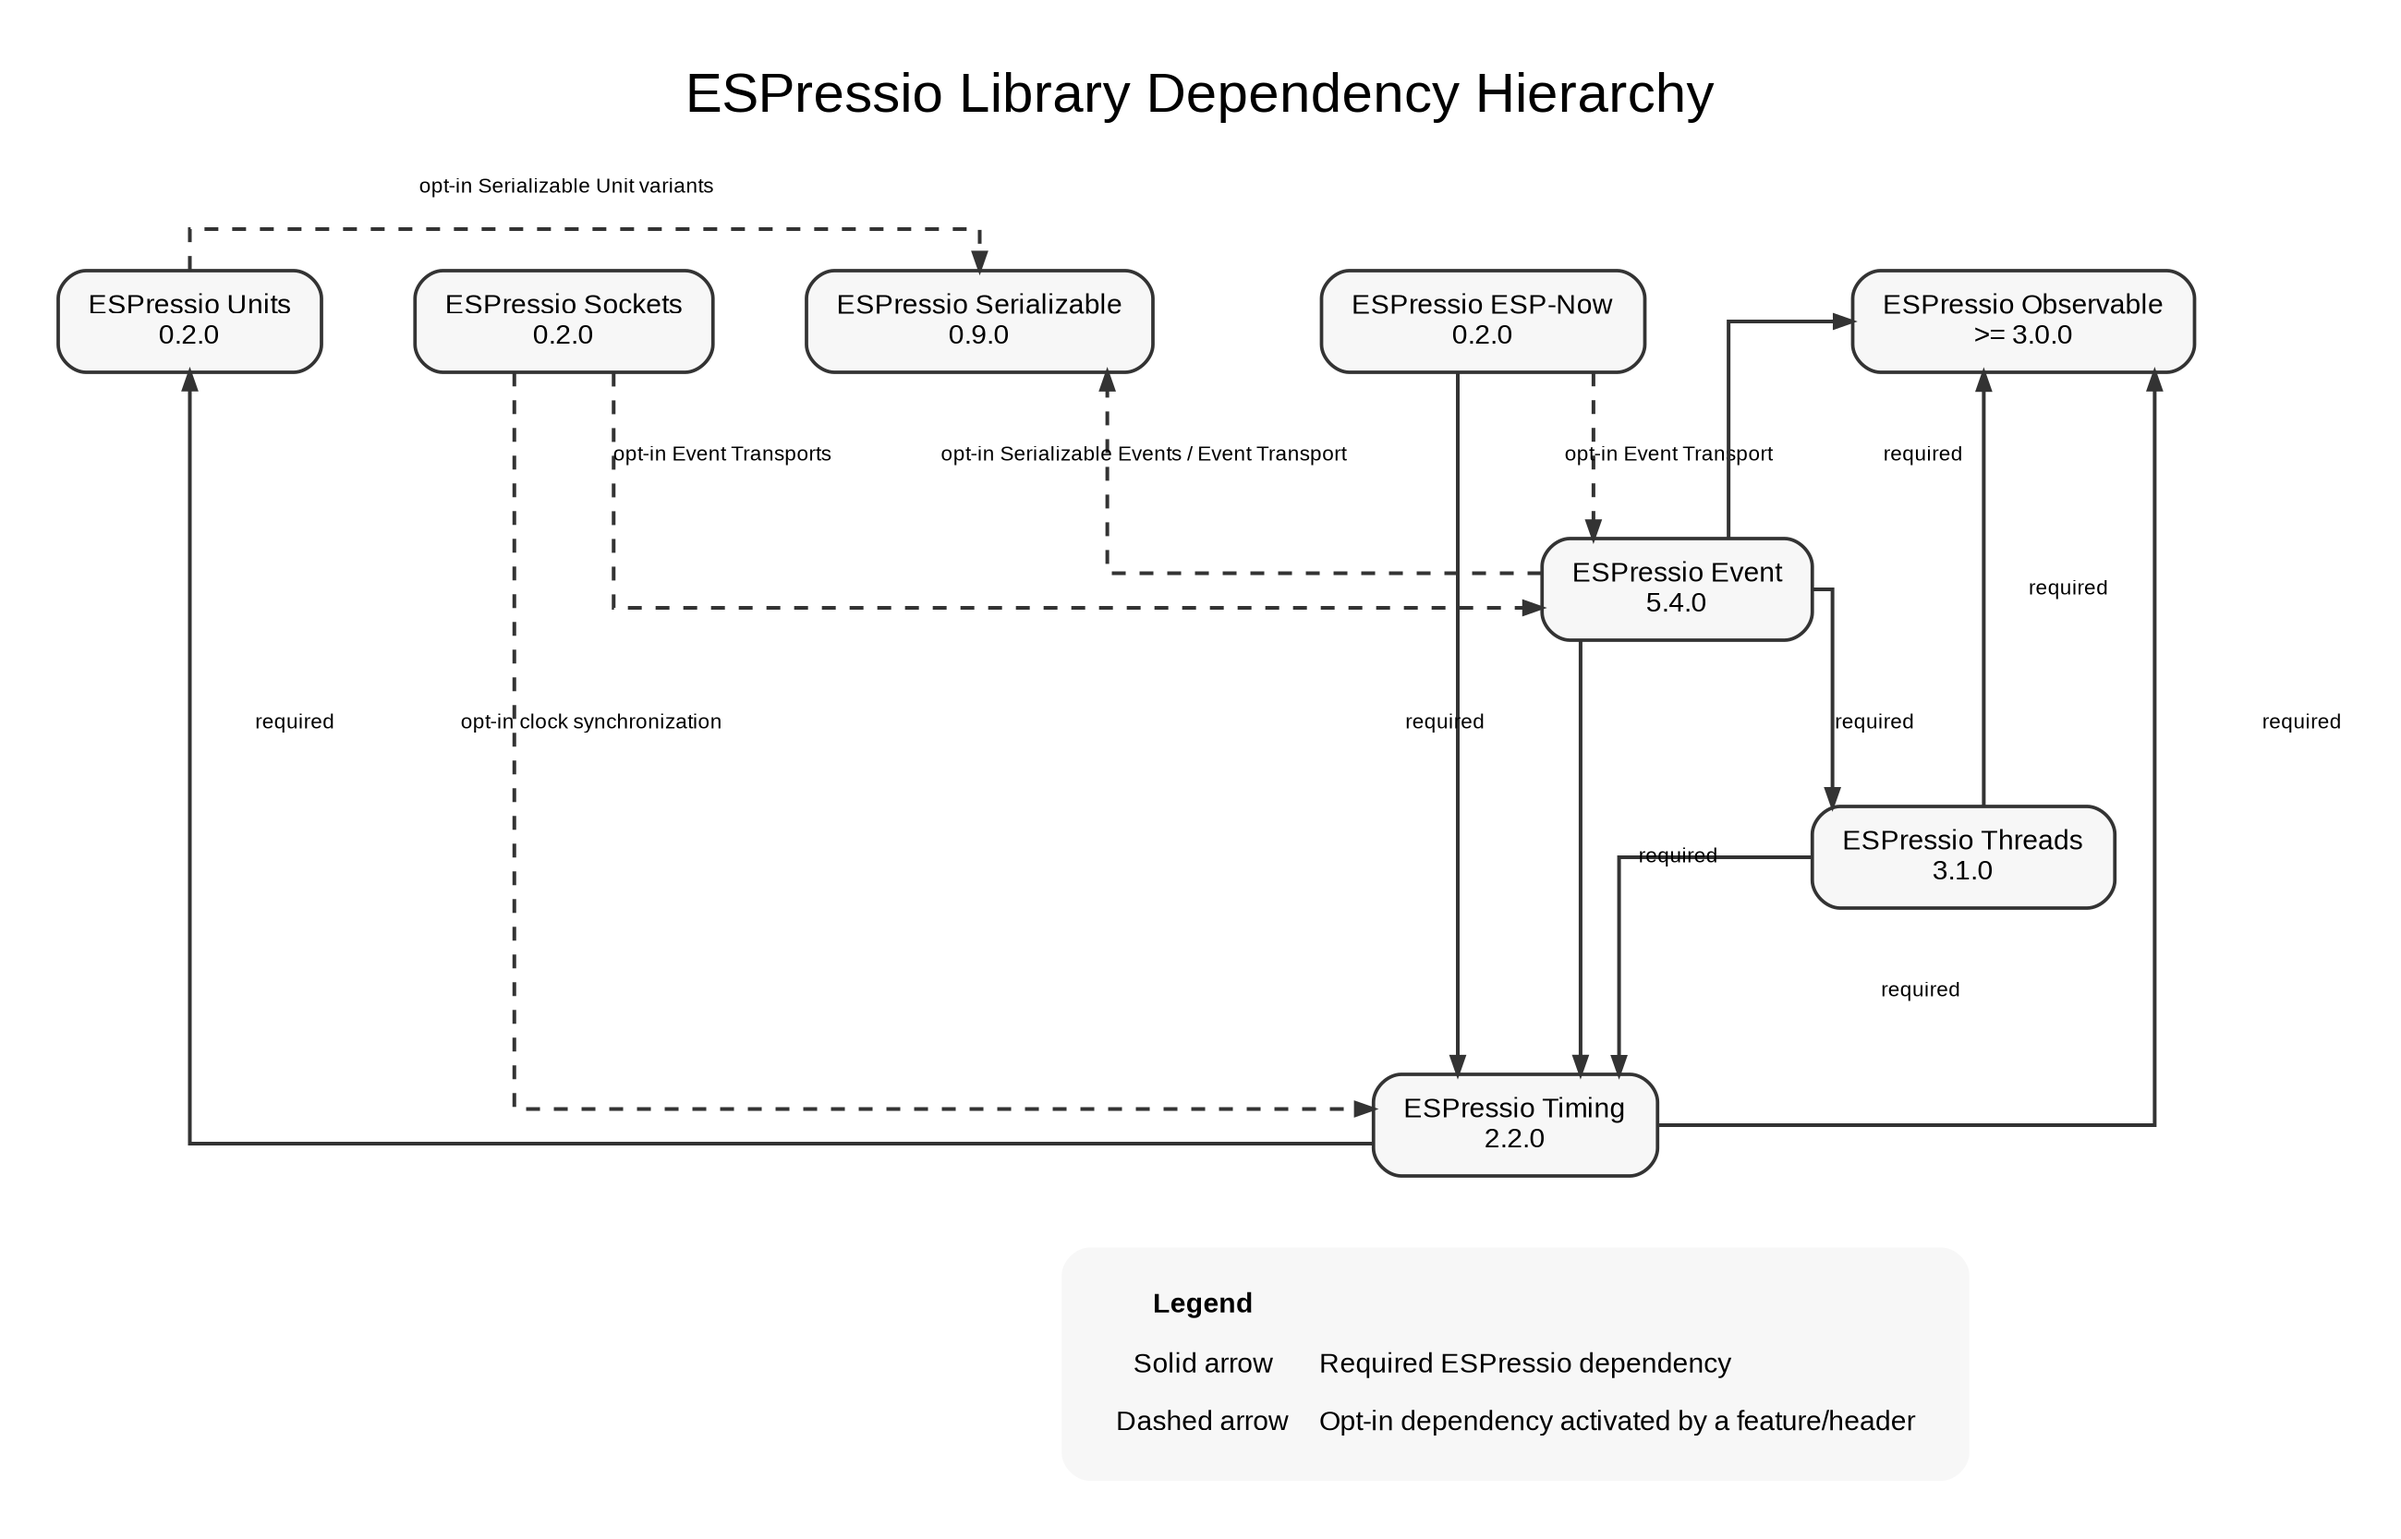
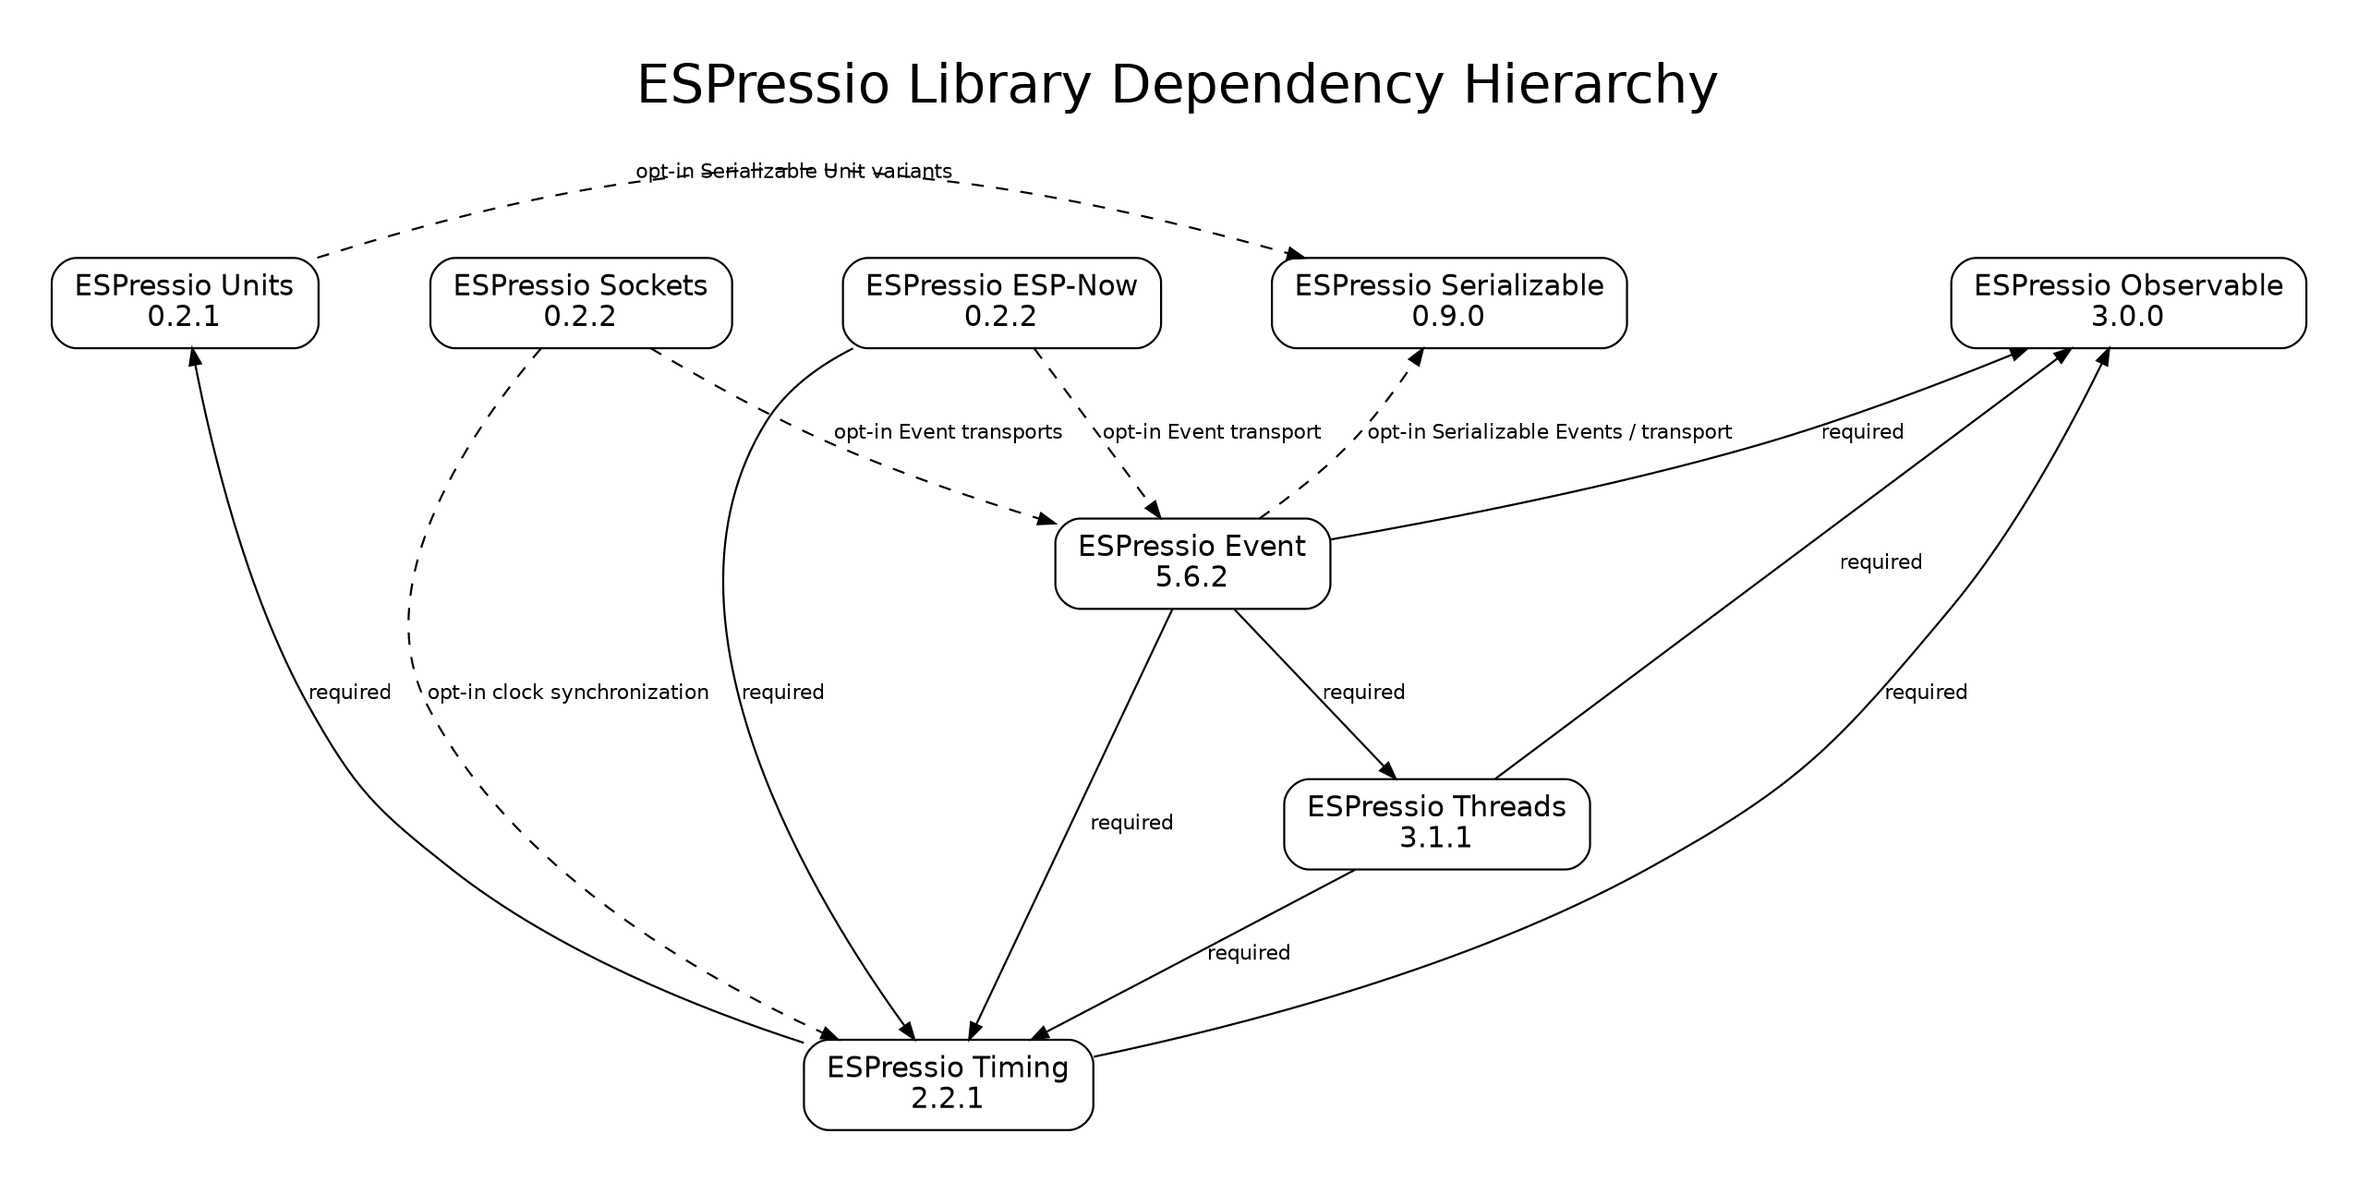
Dependency Version Updates (Patch release 0.2.1)

diff --git a/src/ESPressio_Unit_Serializable.hpp b/src/ESPressio_Unit_Serializable.hpp
@@ -9,7 +9,7 @@
  */
 
 #if !__has_include(<ESPressio_Serializable.hpp>)
-    #error "ESPressio_Unit_Serializable.hpp requires ESPressio-Serializable. Add flowduino/ESPressio-Serializable@^0.9.0 to the consuming project's dependencies."
+    #error "ESPressio_Unit_Serializable.hpp requires ESPressio-Serializable. Add flowduino/ESPressio-Serializable@>=0.9.0,<1.0.0 to the consuming project's dependencies."
 #endif
 
 #include <tuple>

diff --git a/ESPRESSIO_DEPENDENCY_CHART.md b/ESPRESSIO_DEPENDENCY_CHART.md
@@ -18,7 +18,7 @@ This distinction is important to the ESPressio architecture. Optional integratio
 
 ---
 
-## ESPressio Units 0.2.0
+## ESPressio Units 0.2.1
 
 **Required ESPressio dependencies: none.**
 
@@ -40,7 +40,7 @@ ordinary Unit type
 
 Serializable Unit type
     -> ESPressio Units
-    -> ESPressio Serializable
+    -> ESPressio Serializable >= 0.9.0 < 1.0.0
 ```
 
 ---
@@ -78,7 +78,7 @@ ESPressio Timing can operate with Serializable Unit time representations because
 
 ---
 
-## ESPressio Sockets 0.2.0
+## ESPressio Sockets 0.2.2
 
 **Required ESPressio dependencies: none.**
 
@@ -87,6 +87,8 @@ The core ESPressio Sockets library deliberately has no mandatory dependency on a
 It provides socket/network infrastructure and then exposes integrations through opt-in headers.
 
 ### ESPressio Sockets → ESPressio Event — opt-in
+
+Compatibility baseline: **ESPressio Event >= 5.6.2 < 6.0.0**.
 
 Socket Event Transport adapters implement the ESPressio Event transport abstraction.
 
@@ -97,6 +99,8 @@ A project using only the core socket facilities does not require ESPressio Event
 Because Event Transport operates on Serializable Events, the relevant Event/Serializable requirements are then inherited through that selected integration rather than imposed by the Sockets core.
 
 ### ESPressio Sockets → ESPressio Timing — opt-in
+
+Compatibility baseline: **ESPressio Timing >= 2.2.1 < 3.0.0**.
 
 Version 0.2.0 adds socket-based System Clock synchronization implementations.
 
@@ -114,12 +118,12 @@ ESPressio Timing continues to own clock discipline, synchronization calculations
 
 ---
 
-## ESPressio Timing 2.2.0
+## ESPressio Timing 2.2.1
 
 **Required ESPressio dependencies:**
 
-- ESPressio Units >= 0.2.0;
-- ESPressio Observable >= 3.0.0.
+- ESPressio Units >= 0.2.1 < 1.0.0;
+- ESPressio Observable >= 3.0.0 < 4.0.0.
 
 ### ESPressio Timing → ESPressio Units — required
 
@@ -139,12 +143,12 @@ The synchronous Observer layer also provides the source notifications consumed b
 
 ---
 
-## ESPressio Threads 3.1.0
+## ESPressio Threads 3.1.1
 
 **Required ESPressio dependencies:**
 
-- ESPressio Timing >= 2.0.0;
-- ESPressio Observable >= 3.0.0.
+- ESPressio Timing >= 2.2.1 < 3.0.0;
+- ESPressio Observable >= 3.0.0 < 4.0.0.
 
 ### ESPressio Threads → ESPressio Timing — required
 
@@ -164,11 +168,11 @@ ESPressio Event can optionally bridge them into asynchronous Events, but Threads
 
 ---
 
-## ESPressio ESP-Now 0.2.0
+## ESPressio ESP-Now 0.2.2
 
 **Required ESPressio dependencies:**
 
-- ESPressio Timing >= 2.1.0.
+- ESPressio Timing >= 2.2.1 < 3.0.0.
 
 ### ESPressio ESP-Now → ESPressio Timing — required
 
@@ -180,6 +184,8 @@ Timing remains responsible for the actual clock synchronization and discipline.
 
 ### ESPressio ESP-Now → ESPressio Event — opt-in
 
+Compatibility baseline: **ESPressio Event >= 5.6.2 < 6.0.0**.
+
 `ESPNowEventTransport` provides an ESP-NOW implementation of the ESPressio Event transport abstraction.
 
 The Event dependency is deliberately opt-in.
@@ -190,13 +196,13 @@ When `ESPNowEventTransport` is selected, the application also acquires the Seria
 
 ---
 
-## ESPressio Event 5.4.0
+## ESPressio Event 5.6.2
 
 **Required ESPressio dependencies:**
 
-- ESPressio Threads >= 3.1.0;
-- ESPressio Observable >= 3.0.0;
-- ESPressio Timing >= 2.2.0.
+- ESPressio Threads >= 3.1.1 < 4.0.0;
+- ESPressio Observable >= 3.0.0 < 4.0.0;
+- ESPressio Timing >= 2.2.1 < 3.0.0.
 
 Event currently sits at the deepest point in the core ESPressio dependency hierarchy represented here.
 
@@ -236,6 +242,8 @@ This prevents foundational/runtime libraries from acquiring an Event dependency 
 
 ### ESPressio Event → ESPressio Serializable — opt-in
 
+Compatibility baseline: **ESPressio Serializable >= 0.9.0 < 1.0.0**.
+
 Ordinary Event usage does not require ESPressio Serializable.
 
 Serializable Event support and Event Transport are explicitly opt-in.
@@ -253,7 +261,7 @@ while supporting:
 
 ```text
 Serializable / remotely transported Event
-    -> ESPressio Serializable
+    -> ESPressio Serializable >= 0.9.0 < 1.0.0
 ```
 
 ---

diff --git a/CHANGELOG.md b/CHANGELOG.md
@@ -12,6 +12,18 @@ Versioning](https://semver.org/).
 > had little or no release-note detail, the entry is intentionally terse
 > rather than inferring unsupported intent.
 
+## \[0.2.1\] - 2026-08-19
+
+### Changed
+
+-   Updated the optional ESPressio Serializable compatibility guidance to
+    target `>= 0.9.0 < 1.0.0`.
+-   Replaced the narrower `^0.9.0` consumer guidance so Serializable Unit
+    variants may consume later compatible 0.x minor and patch releases while
+    remaining protected from a future 1.x breaking release.
+-   Updated current dependency documentation and release metadata for the
+    ESPressio dependency refresh.
+
 ## \[0.2.0\] - 2026-08-18
 
 ### Added

diff --git a/README.md b/README.md
@@ -5,7 +5,7 @@ Flowduino ESPressio Development Platform.
 
 ## Latest Stable Version
 
-**0.2.0**
+**0.2.1**
 
 ## ESPressio Development Platform
 
@@ -52,6 +52,10 @@ Ordinary Unit types do **not** require Serializable. Serializable
 counterparts are exposed through separate `*_Serializable.hpp` headers
 and `ESPressio_SerializableUnits.hpp`; only applications selecting those
 types acquire the dependency.
+
+Serializable Unit variants target **ESPressio Serializable >= 0.9.0 < 1.0.0**,
+allowing compatible later 0.x minor and patch releases while preventing an
+automatic transition to a future 1.x breaking release.
 
 ## Namespace
 
